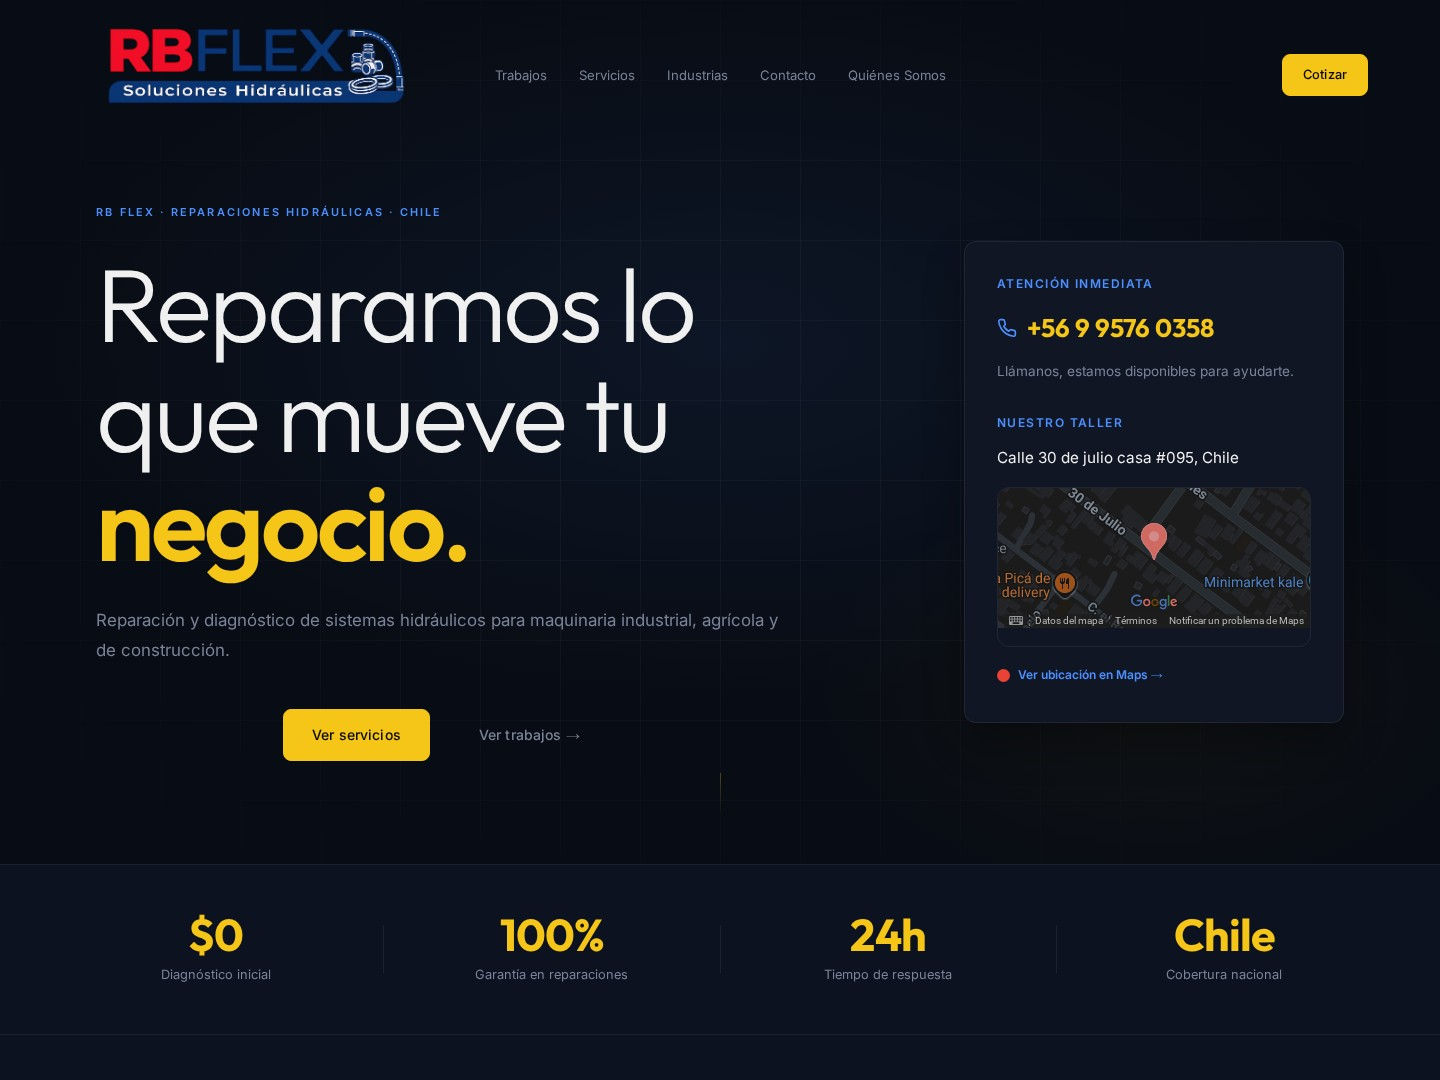
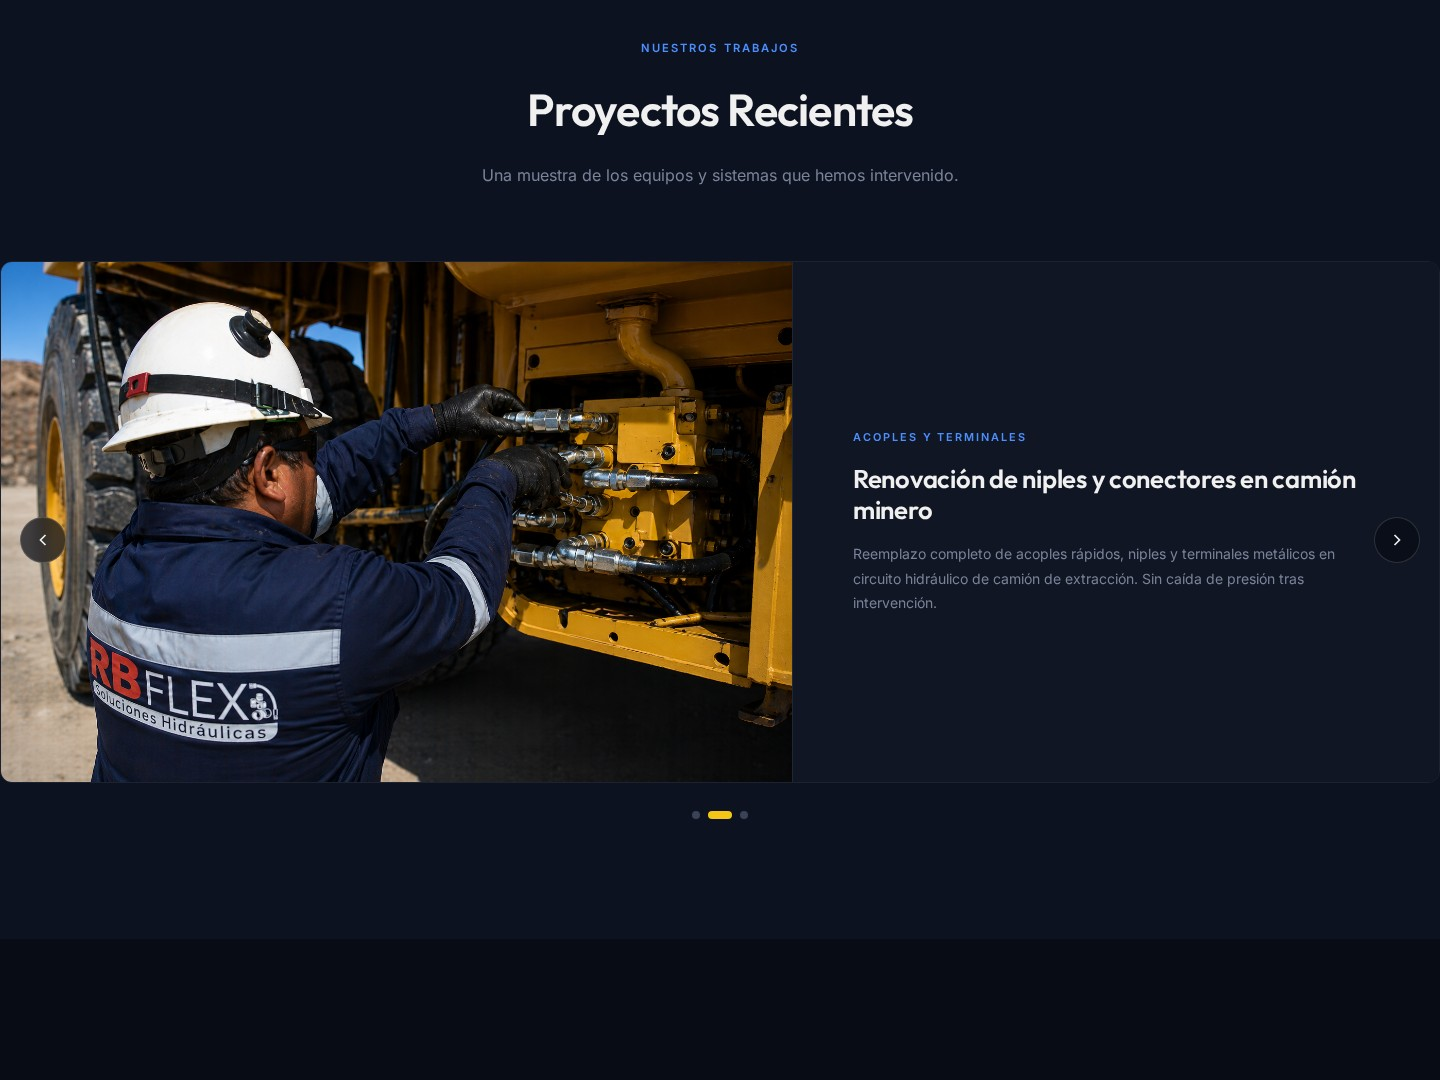
feat(gallery): thumbnail centrado y badge LIVE condicional
- preview.jpg de RB Flex regenerado: ahora encuadra la seccion
  "Trabajos" (slider con fotos reales del trabajo), centrada, en vez
  del hero con el texto pegado a la izquierda.
- El badge "LIVE" solo aparece si el sitio del proyecto responde. Un
  fetch no-cors a la url comprueba que el dominio sigue en linea; si
  falla, no se muestra el badge.

diff --git a/src/components/gallery/ProjectCard.tsx b/src/components/gallery/ProjectCard.tsx
@@ -84,6 +84,28 @@ export default function ProjectCard({ project }: Props) {
   const [hover, setHover] = useState(false)
   const isPlaceholder = project.status === 'wip'
 
+  // El badge "LIVE" solo aparece si el sitio del trabajo responde. Un
+  // fetch no-cors se resuelve si el dominio conecta y se rechaza ante un
+  // fallo de red/DNS — suficiente para saber si sigue en linea.
+  const [liveOk, setLiveOk] = useState(false)
+  useEffect(() => {
+    if (project.status !== 'live' || !project.url) return
+    let cancelled = false
+    const ctrl = new AbortController()
+    const timer = setTimeout(() => ctrl.abort(), 6000)
+    fetch(project.url, { mode: 'no-cors', signal: ctrl.signal })
+      .then(() => {
+        if (!cancelled) setLiveOk(true)
+      })
+      .catch(() => {})
+      .finally(() => clearTimeout(timer))
+    return () => {
+      cancelled = true
+      clearTimeout(timer)
+      ctrl.abort()
+    }
+  }, [project.status, project.url])
+
   const inner = (
     <article
       onMouseEnter={() => setHover(true)}
@@ -143,7 +165,7 @@ export default function ProjectCard({ project }: Props) {
             WIP
           </span>
         )}
-        {project.status === 'live' && (
+        {project.status === 'live' && liveOk && (
           <span className="px-2 py-1 rounded-full bg-[var(--color-accent-lime)]/90 text-black border border-black/10">
             LIVE ↗
           </span>
